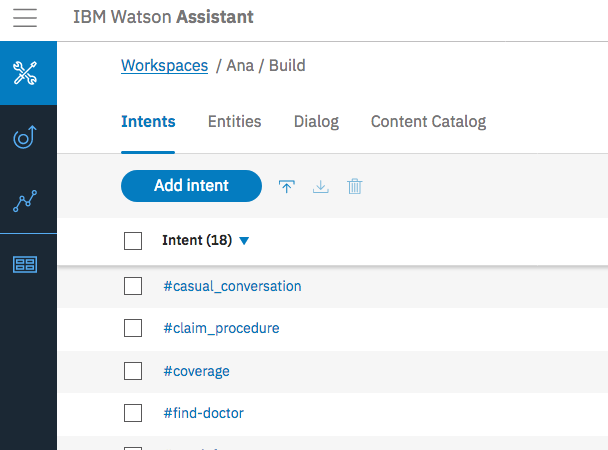
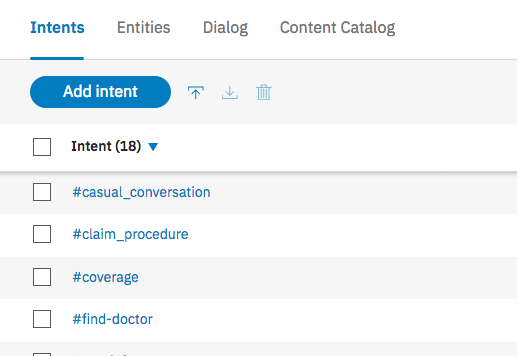
update to "assistant"

diff --git a/android-watson-chatbot.md b/android-watson-chatbot.md
@@ -25,7 +25,7 @@ This tutorial walks you through the process of defining intents and entities and
 ## Objectives
 {: #objectives}
 
-- Create a chatbot: create a workspace, define an intent and entity, build the dialog flow.
+- Use {{site.data.keyword.conversationshort}} to customize and deploy a chatbot. 
 - Allow end users to interact with chatbot using voice and audio.
 - Configure and run the Android app.
 
@@ -56,25 +56,53 @@ This tutorial uses the following products:
 
 - Download and install [Android Studio![External link icon](https://console.bluemix.net/docs/api/content/icons/launch-glyph.svg?lang=en)](https://developer.android.com/studio/index.html).
 
-## Create a workspace
+## Create services
+{: #setup}
+
+In this section, you will create the services required by the tutorial starting with {{site.data.keyword.conversationshort}} to build cognitive virtual assistants that help your customers.
+
+1. Go to the [**{{site.data.keyword.Bluemix_notm}} Catalog**](https://console.bluemix.net/catalog/) and select [{{site.data.keyword.conversationshort}}](https://console.bluemix.net/catalog/services/watson-assistant-formerly-conversation) service > **Lite** plan:
+   1. Set **Name** to **android-chatbot-assistant**
+   1. **Create**.
+2. Click **Service credentials** on the left pane and click **New credential**.
+   1. Set **Name** to **for-android-app**.
+   1. **Add**.
+3. Click **View Credentials** to see the credentials. Make note of the **apikey**, you will need it for the mobile application.
+
+The {{site.data.keyword.speechtotextshort}} service converts the human voice into the written word that can be sent as an input to {{site.data.keyword.conversationshort}} service on {{site.data.keyword.Bluemix_short}}.
+
+1. Go to the [**{{site.data.keyword.Bluemix_notm}} Catalog**](https://console.bluemix.net/catalog/) and select [{{site.data.keyword.speechtotextshort}}](https://console.bluemix.net/catalog/services/speech-to-text) service > **Lite** plan.
+   1. Set **Name** to **android-chatbot-stt**.
+   1. **Create**.
+2. Click **Service credentials** on the left pane and click **New credential** to add a new credential.
+   1. Set **Name** to **for-android-app**.
+   1. **Add**.
+3. Click **View Credentials** to see the credentials. Make note of the **apikey**, you will need it for the mobile application.
+
+The {{site.data.keyword.texttospeechshort}} service processes text and natural language to generate synthesized audio output complete with appropriate cadence and intonation. The service provides several voices and can be configured in the Android app.
+
+1. Go to the [**{{site.data.keyword.Bluemix_notm}} Catalog**](https://console.bluemix.net/catalog/) and select [{{site.data.keyword.texttospeechshort}}](https://console.bluemix.net/catalog/services/text-to-speech) service > **Lite** plan.
+   1. Set **Name** to **android-chatbot-tts**.
+   1. **Create**.
+2. Click **Service credentials** on the left pane and click **New credential** to add a new credential.
+   1. Set **Name** to **for-android-app**.
+   1. **Add**.
+3. Click **View Credentials** to see the credentials. Make note of the **apikey**, you will need it for the mobile application.
+
+## Create a skill
 {: #create_workspace}
 
-To begin, you will create {{site.data.keyword.conversationshort}} service on {{site.data.keyword.Bluemix_short}} and add a workspace. A workspace is a container for the artifacts that define the conversation flow.
+A skill is a container for the artifacts that define the conversation flow.
 
-For this tutorial, you will save and use [Ana_workspace.json](https://github.com/IBM-Cloud/chatbot-watson-android/raw/master/training/Ana_workspace.json) file with predefined intents, entities and dialog flow to your machine.
+For this tutorial, you will save and use [Ana_skill.json](https://github.com/IBM-Cloud/chatbot-watson-android/raw/master/training/Ana_skill.json) file with predefined intents, entities and dialog flow to your machine.
 
-1. Go to the [**{{site.data.keyword.Bluemix_notm}} Catalog**](https://console.bluemix.net/catalog/) and select [{{site.data.keyword.conversationshort}}](https://console.bluemix.net/catalog/services/watson-assistant-formerly-conversation) service > **Lite** plan under **Watson**. Click **Create**.
-2. Click **Service credentials** on the left pane and click **New credential** to add a new credential.
-3. Click **View Credentials** to see the credentials. Save the credentials in a text editor for quick reference.
-4. Navigate to **Manage** on the left pane, click on **Launch tool** to see the {{site.data.keyword.conversationshort}} dashboard.
-   ![](images/solution28-watson-chatbot-android/watson_assistant_launch_tool.png)
-5. Click on **Workspaces** tab.
-6. Click **Import workspace** ![](images/solution28-watson-chatbot-android/import_icon.png) icon and choose the JSON file downloaded above.
-   ![](images/solution28-watson-chatbot-android/import_workspace.png)
-7. Select **Everything** option and click **Import**. A new workspace is created with predefined intents, entities and dialog flow.
-8. On the left pane, click on ![](images/solution28-watson-chatbot-android/workspaces_icon.png) icon to see all your workspaces. Click ![](images/solution28-watson-chatbot-android/workspace_more.png) icon on the `Ana` workspace to **View details** of the workspace. Copy and save the `Workspace ID` for future reference.
+1. In the {{site.data.keyword.conversationshort}} service details page, navigate to **Manage** on the left pane, click on **Launch tool** to see the {{site.data.keyword.conversationshort}} dashboard.
+1. Click on **Skills** tab.
+1. **Create new** then **Import skill** and choose the JSON file downloaded above.
+1. Select **Everything** option and click **Import**. A new skill is created with predefined intents, entities and dialog flow.
+1. Go back to the list of Skills. Select the action menu on the `Ana` skill to **View API Details**. Copy and save the `Skill ID` for future reference.
 
-## Define an intent
+### Define an intent
 {:#define_intent}
 
 An intent represents the purpose of a user's input, such as answering a question or processing a bill payment. You define an intent for each type of user request you want your application to support. By recognizing the intent expressed in a user's input, the {{site.data.keyword.conversationshort}} service can choose the correct dialog flow for responding to it. In the tool, the name of an intent is always prefixed with the `#` character.
@@ -84,7 +112,7 @@ Simply put, intents are the intentions of the end-user. The following are exampl
  - `#pay_bill`
  - `#escalate_to_agent`
 
-1. Click on the newly create Workspace- **Ana**.
+1. Click on the newly create skill - **Ana**.
 
    Ana is an insurance bot for users to query their health benefits and file claims.
    {:tip}
@@ -102,12 +130,12 @@ Simply put, intents are the intentions of the end-user. The following are exampl
    {:tip}
 
 7. Click the **close** ![](images/solution28-watson-chatbot-android/close_icon.png) button next to the intent name to save the intent.
-8. Click on **Content Catalog** and select **General**. Click **Add to Workspace**.
+8. Click on **Content Catalog** and select **General**. Click **Add to skill**.
 
    Content catalog helps you in getting started faster by adding existing intents (banking, customer care, insurance, telco, e-commerce and many more). These intents are trained on common questions that users may ask.
    {:tip}
 
-## Define an entity
+### Define an entity
 {:#define_entity}
 
 An entity represents a term or object that is relevant to your intents and that provides a specific context for an intent. You list the possible values for each entity and synonyms that users might enter. By recognizing the entities that are mentioned in the user's input, the {{site.data.keyword.conversationshort}} service can choose the specific actions to take to fulfill an intent. In the tool, the name of an entity is always prefixed with the `@` character.
@@ -129,38 +157,37 @@ The following are examples of entity names
    {:tip}
 7. Toggle the **Status** from off to `on` for @sys-person and @sys-location system entities.
 
-## Build the dialog flow
+### Build the dialog flow
 {:#build_dialog}
 
 A dialog is a branching conversation flow that defines how your application responds when it recognizes the defined intents and entities. You use the dialog builder in the tool to create conversations with users, providing responses based on the intents and entities that you recognize in their input.
 
 1. Click on **Dialog** tab to see the existing dialog flow with intents and entities.
 2. Click **Add node** to add a new node to the dialog.
-3. Under **if bot recognizes: **, enter `#Cancel_Policy`.
-4. Under **Then respond with:**, enter the response `This facility is not available online. Please visit our nearest branch to cancel your policy.`
+3. Under **if assistant recognizes**, enter `#Cancel_Policy`.
+4. Under **Then respond with**, enter the response `This facility is not available online. Please visit our nearest branch to cancel your policy.`
 5. Click on ![](images/solution28-watson-chatbot-android/save_node.png) to close and save the node.
 6. Scroll to see the `#greeting` node. Click on the node to see the details.
    ![](images/solution28-watson-chatbot-android/build_dialog.png)
-7. Click the ![](images/solution28-watson-chatbot-android/add_condition.png) icon to **add a new condition**. Select `or` from the dropdown and enter `#General_Greetings` as the intent. **Then respond with section** shows the bot's response if the bot is greeted by the user.
+7. Click the ![](images/solution28-watson-chatbot-android/add_condition.png) icon to **add a new condition**. Select `or` from the dropdown and enter `#General_Greetings` as the intent. **Then respond with section** shows the assistant's response when greeted by the user.
    ![](images/solution28-watson-chatbot-android/apply_condition.png)
 
    A context variable is a variable that you define in a node, and optionally specify a default value for. Other nodes or application logic can subsequently set or change the value of the context variable. The application can pass information to the dialog, and the dialog can update this information and pass it back to the application, or to a subsequent node. The dialog does so by using context variables.
    {:tip}
 
-8. Test the dialog flow by clicking ![](images/solution28-watson-chatbot-android/ask_watson.png).
+8. Test the dialog flow using the **Try it** button.
 
-## Create {{site.data.keyword.speechtotextshort}} and {{site.data.keyword.texttospeechshort}} services
-{:#create_speech_services}
+## Link the skill to an assistant
 
-The {{site.data.keyword.speechtotextshort}} service converts the human voice into the written word that can be sent as an input to {{site.data.keyword.conversationshort}} service on {{site.data.keyword.Bluemix_short}}.
+An assistant is a cognitive bot that you can customize for your business needs, and deploy across multiple channels to bring help to your customers where and when they need it. You customize the assistant by adding to it the skills it needs to satisfy your customers' goals.
 
-1. Go to the [**{{site.data.keyword.Bluemix_notm}} Catalog**](https://console.bluemix.net/catalog/) and select [{{site.data.keyword.speechtotextshort}}](https://console.bluemix.net/catalog/services/speech-to-text) service > **Lite** plan under **Watson**. Click **Create**.
-2. Click **Service credentials** on the left pane and click **New credential** to add a new credential.
-3. Click **View Credentials** to see the credentials and save the credentials in a text editor for future reference.
-    ![](images/solution28-watson-chatbot-android/speech_to_text.png)
-4. Repeat steps 1 to 3 to create [{{site.data.keyword.texttospeechshort}}](https://console.bluemix.net/catalog/services/text-to-speech) service and save the credentials. The {{site.data.keyword.texttospeechshort}} service processes text and natural language to generate synthesized audio output complete with appropriate cadence and intonation.
-    The service provides several voices and can be configured in the Android app.
-
+1. In the {{site.data.keyword.conversationshort} tool, switch to **Assistants** and use **Create new**.
+   1. Set **Name** to **android-chatbot-assistant**
+   1. **Create**
+1. Use **Add Dialog skill** to select the skill created in the previous sections.
+   1. **Add existing skill** 
+   1. Select **Ana**
+1. Under **View API Details** for the assistant, make note of the **Assistant ID**, you will need to reference it from the mobile application.
 
 ## Configure and run the Android app
 {:#configure_run_android_app}
@@ -171,6 +198,7 @@ The repository contains Android application code with required gradle dependenci
    ```bash
    git clone https://github.com/IBM-Cloud/chatbot-watson-android
    ```
+   {: codeblock}
 2. Launch Android Studio > **Open an existing Android Studio project** and point to the downloaded code.**Gradle** build will automatically be triggered and all the dependencies will be downloaded.
 3. Open `app/src/main/res/values/config.xml` to see the placeholders for service credentials. Enter the service credentials (you saved earlier) in their respective placeholders and save the file.
 4. Build the project and start the application on a real device or with a simulator.
